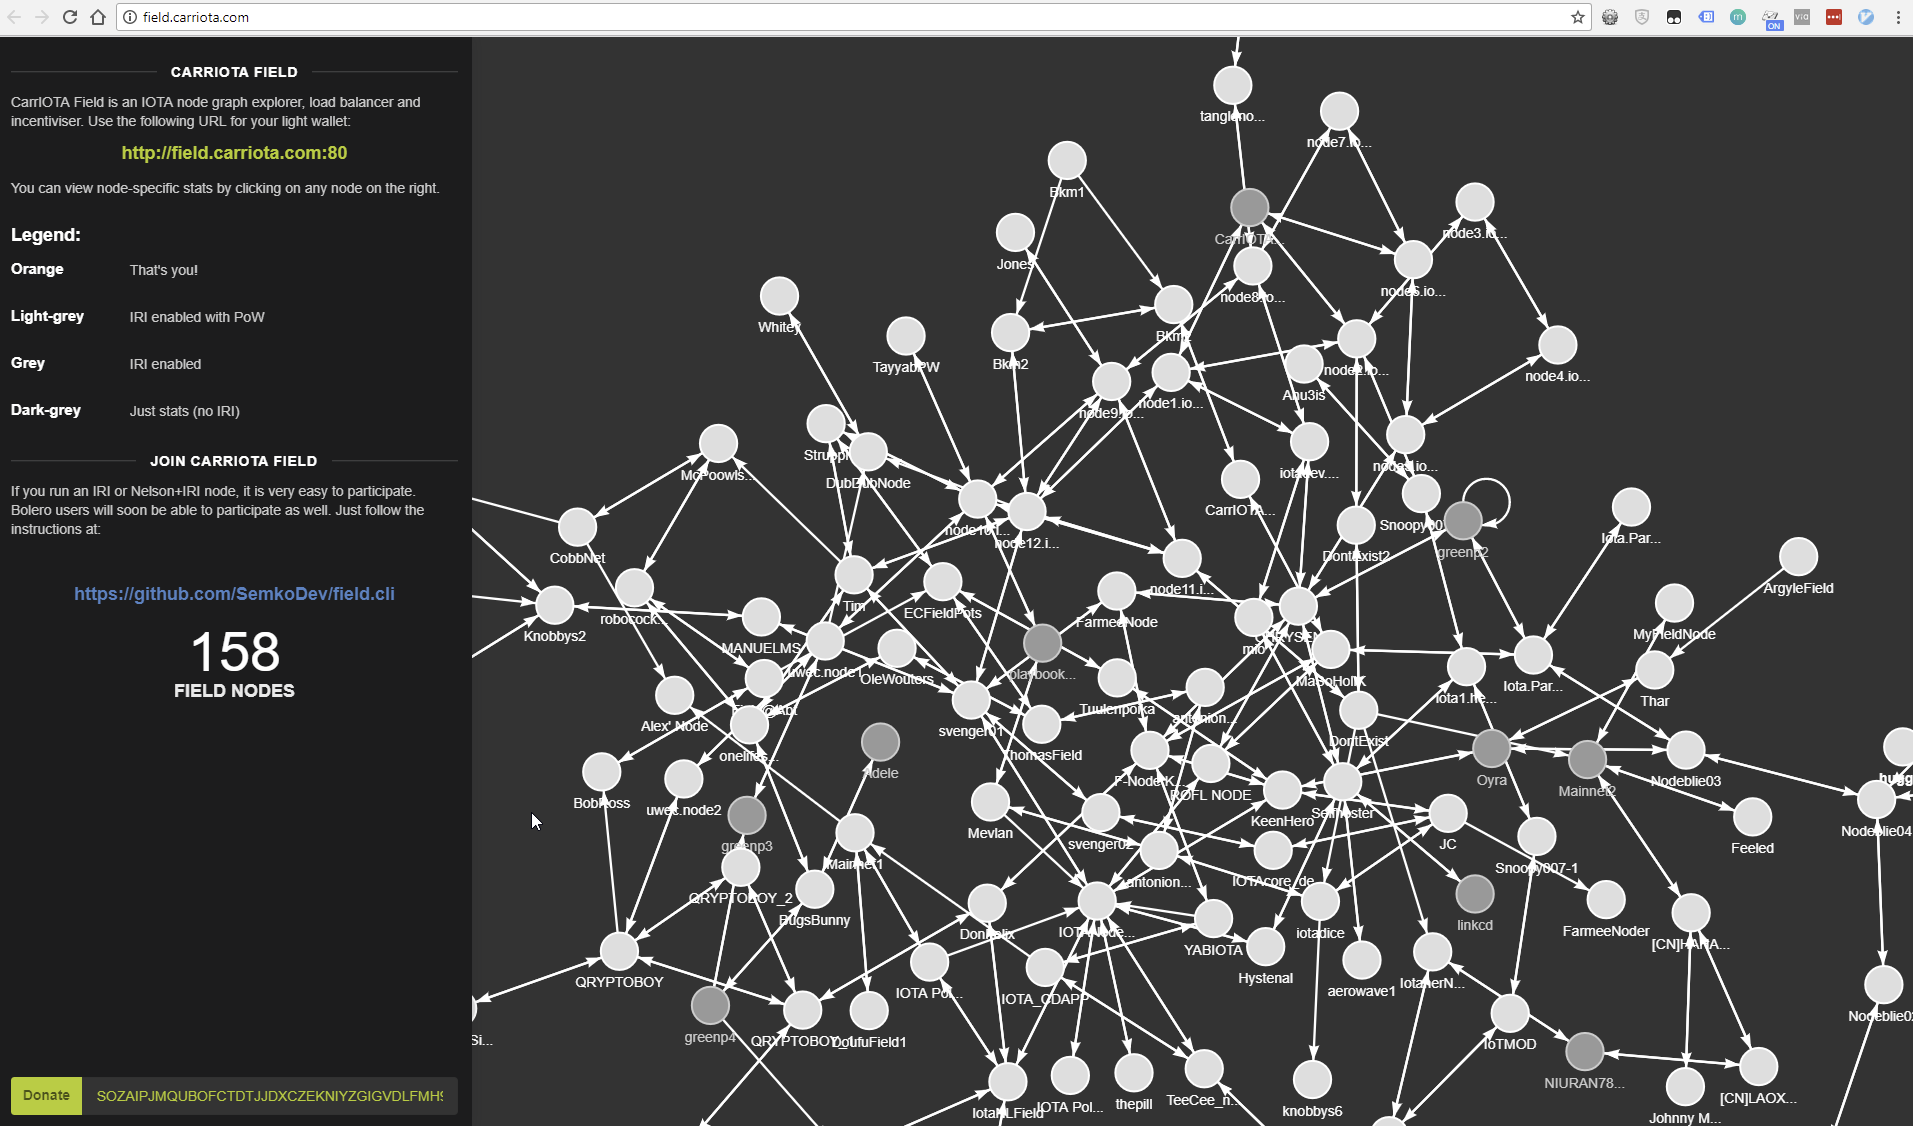
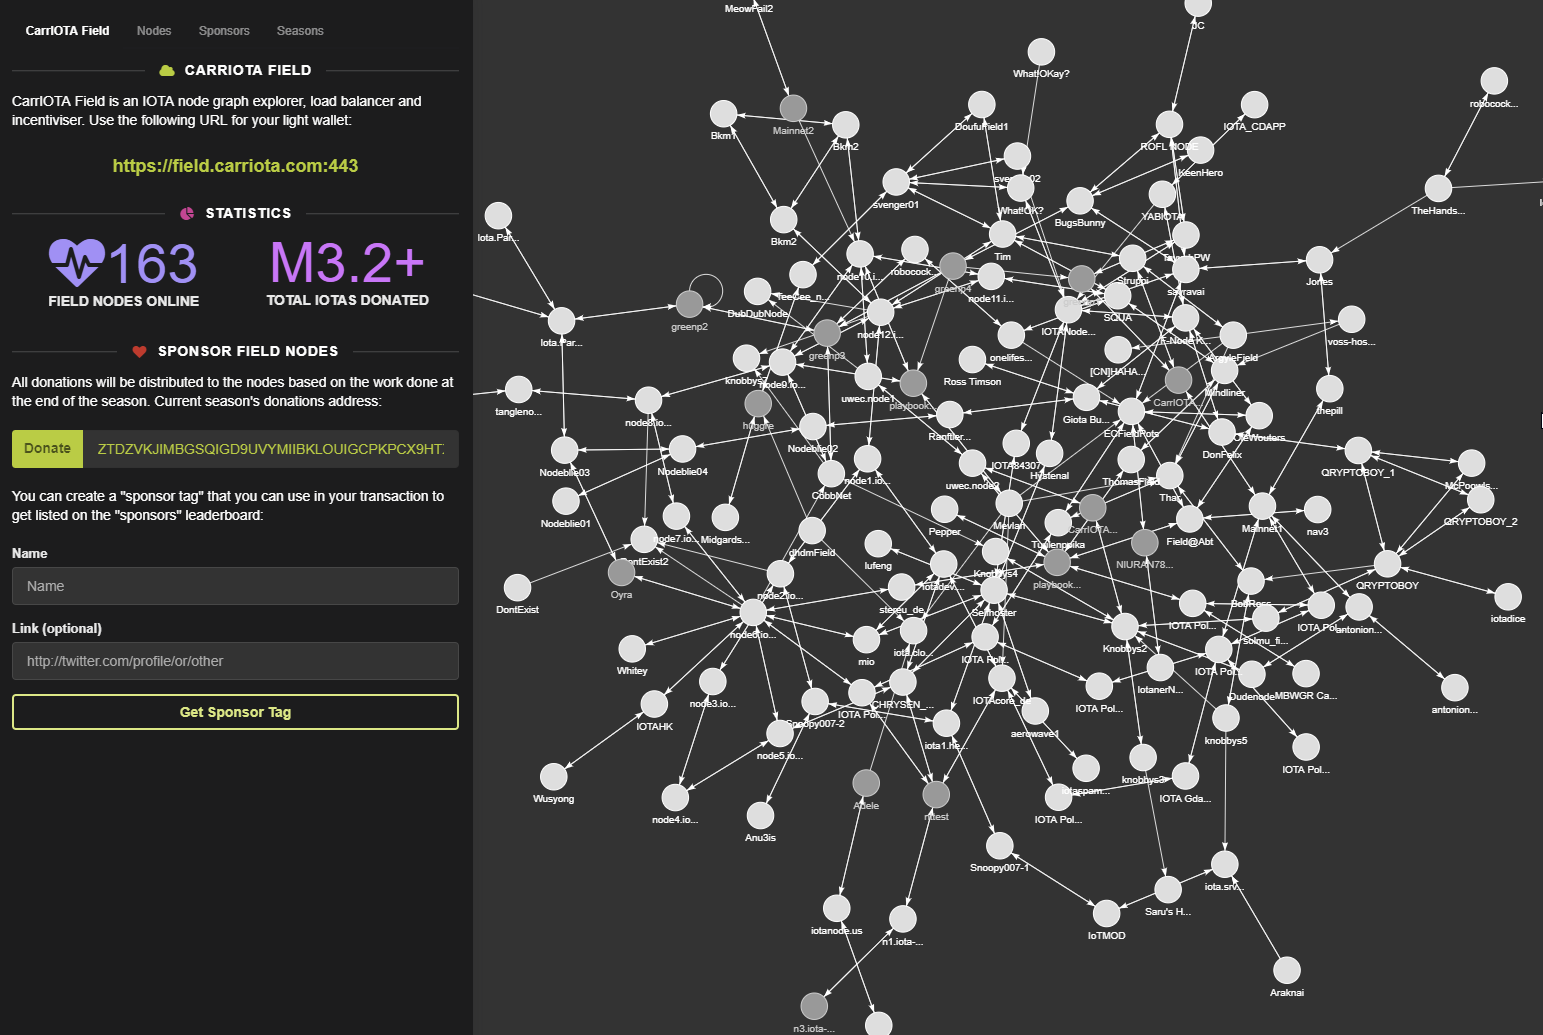
update iota blog

diff --git a/source/_posts/Running-IOTA-Full-Node.md b/source/_posts/Running-IOTA-Full-Node.md
@@ -12,10 +12,14 @@ tags:
 I have been looking at [IOTA](https://www.iota.org/) since last winter, as it seems promising for IoT, Machine-to-Machine Micro-payments and Data Market scenarios.
 
 Installing an IOTA light wallet is pretty straightforward, but running a full node is not. But thanks to the great [playbook](http://iri-playbook.readthedocs.io/en/master/introduction.html), I managed to setup a Virtual Private Server to run as an IOTA full node. 
-- 4 cores CPU 
-- 8 GM memory
+- 2 cores CPU 
+- 4 GM memory
 - SSD 
 - Hosted 24/7 in a data center in Western Europe
+
+{% asset_img "IOTA Field.png " "Connected full nodes in IOTA field map" %}
+
+<!-- more -->
 
 ## Setup steps ##
 - Followed the steps in [playbook](http://iri-playbook.readthedocs.io/en/master/introduction.html)
@@ -25,6 +29,58 @@ Installing an IOTA light wallet is pretty straightforward, but running a full no
 - Found good neighbors from IOTA Discord #nodesharing channel 
 	Tips: go to #rank-yourself  and type "!rank fullnode", then you'll get access to the #nodesharing channel 
 
+## Security! ##
+There are lots of things you need to think about when you are hosting a 24/7 server on the internet. [This blog](https://x-vps.com/blog/?p=188) and [Security Hardening](http://iri-playbook.readthedocs.io/en/master/securityhardening.html) section provides a good guideline. 
+- Use SSH key access
+- Disable password authentication 
+- Disable SSH root access
+
+In addition, if you are using the [playbook installer ](http://iri-playbook.readthedocs.io/en/master/getting-started-quickly.html), you basically have the default user name and ports for your full node.** IT IS IMPORTANT TO CHANGE THEM!** Otherwise the attacker only need to crack the password, as they already know your user name (**iotapm**) and your ports.
+
+### Update user name and password in bash ###
+```bash
+nano /opt/iri-playbook/group_vars/all/iotapm.yml
+#update the following values
+iotapm_nginx_user: new_user_account
+iotapm_nginx_password: 'a-strong-password' 	
+
+nano /opt/iri-playbook/group_vars/all/z-override-iotapm.yml
+#update the following values
+iotapm_nginx_user: new_user_account
+iotapm_nginx_password: 'a-strong-password'
+```
+[reference](http://iri-playbook.readthedocs.io/en/master/installation.html#set-access-password) 
+
+You can perform the following steps after you completed the installer.
+
+### Update nginx user ###
+1. Remove the default user iotpm
+```bash
+htpasswd -D /etc/nginx/.htpasswd iotpm
+```
+2. Create new user
+```bash
+htpasswd /etc/nginx/.htpasswd new_user_account
+```
+
+### Update system account in grafana ###
+1. Stop grafana-server:
+```bash
+systemctl stop grafana-server
+```
+2. Delete grafana’s database:
+```bash
+rm -f /var/lib/grafana/grafana.db
+```
+3. Edit /etc/grafana/grafana.ini, set correct values for admin_user and admin_password (from above step)
+4. Start grafana-server:
+```bash
+systemctl start grafana-server
+```
+5. re-install grafana by using iric, select "update monitoring"
+
+[reference](http://iri-playbook.readthedocs.io/en/master/troubleshooting.html#http-error-401-unauthorized-when-running-playbook) 
+
 ## Screenshots ##
 {% asset_img "Grafana dashboard.png " "Grafana dashboard for IOTA node" %}
 {% asset_img "Grafana dashboard 2.png " "Grafana dashboard for IOTA node" %}
@@ -32,8 +88,8 @@ Installing an IOTA light wallet is pretty straightforward, but running a full no
 Overview of connected neighbors
 {% asset_img "IOTA Node Peer Manager.png " "IOTA Node Peer Manager" %}
 
-Find your place on the net: http://field.carriota.com/
-{% asset_img "IOTA Field.png " "Screenshot of IOTA field" %}
+The node in the map: http://field.carriota.com/
+{% asset_img "My node in field map.png " "My node in field map" %}
 
 Also, connect the wallet to the our node
 {% asset_img "Wallet.png " "Connect wallet to our node" %}
